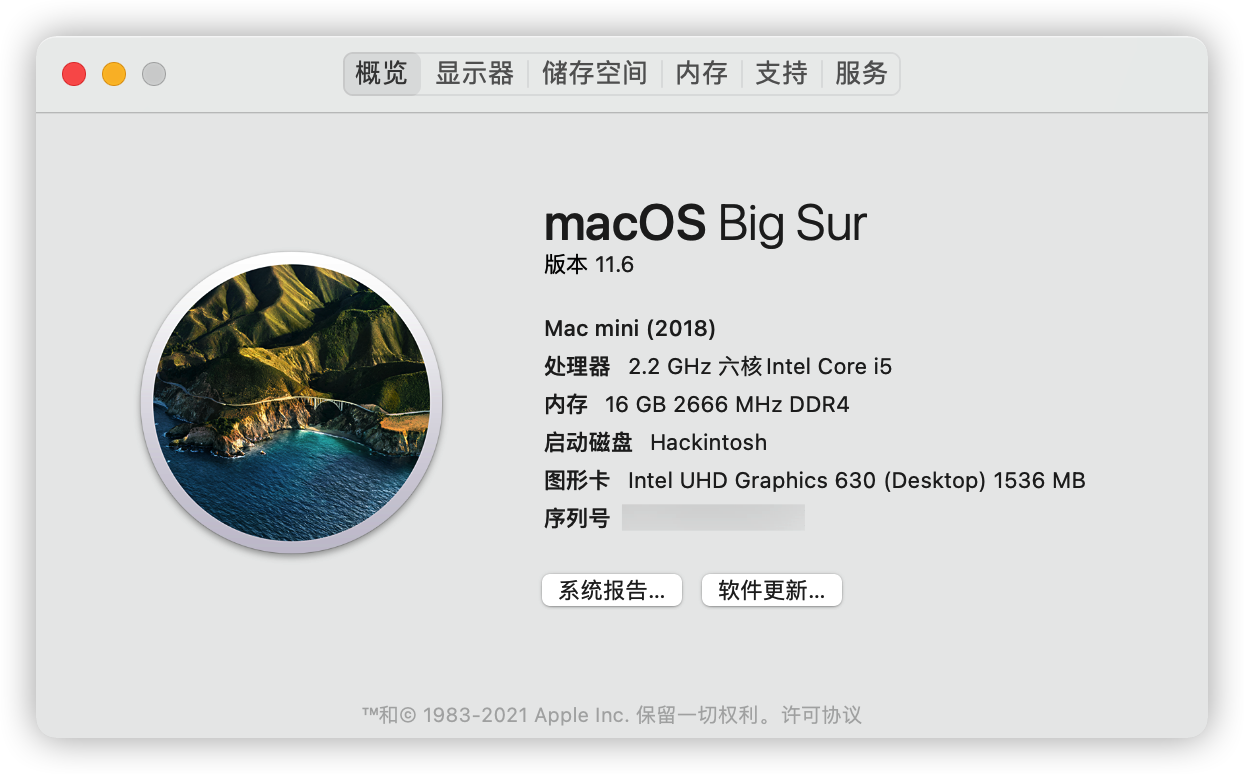
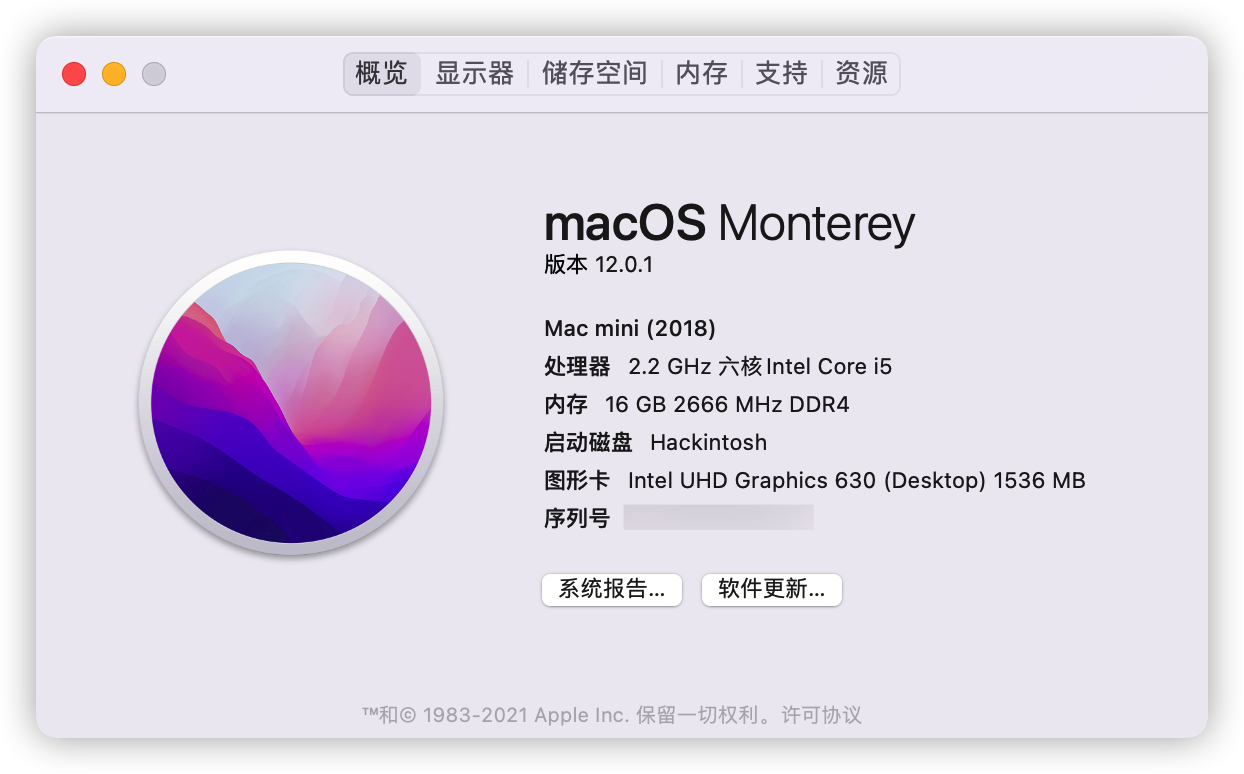
docs: update README

diff --git a/README_CN.md b/README_CN.md
@@ -5,9 +5,9 @@
 
 [English](https://github.com/WingLim/Dell-Optiplex-5070mff-Hackintosh/blob/main/README.md) | 中文
 
-**EFI 已经在 Big Sur 11.6 上通过测试**
+**EFI 已经在 Monterey 11.6 上通过测试**
 
-使用 OpenCore `v0.7.3`
+使用 OpenCore `v0.7.4`
 
 ![Screenshot](screenshot.png)
 

diff --git a/README.md b/README.md
@@ -7,9 +7,9 @@
 
 English | [中文](https://github.com/WingLim/Dell-Optiplex-5070mff-Hackintosh/blob/main/README_CN.md)
 
-**EFI tested on Big Sur 11.6**
+**EFI tested on Monterey 12.0.1**
 
-Use OpenCore `v0.7.3`
+Use OpenCore `v0.7.4`
 
 ![Screenshot](screenshot.png)
 
